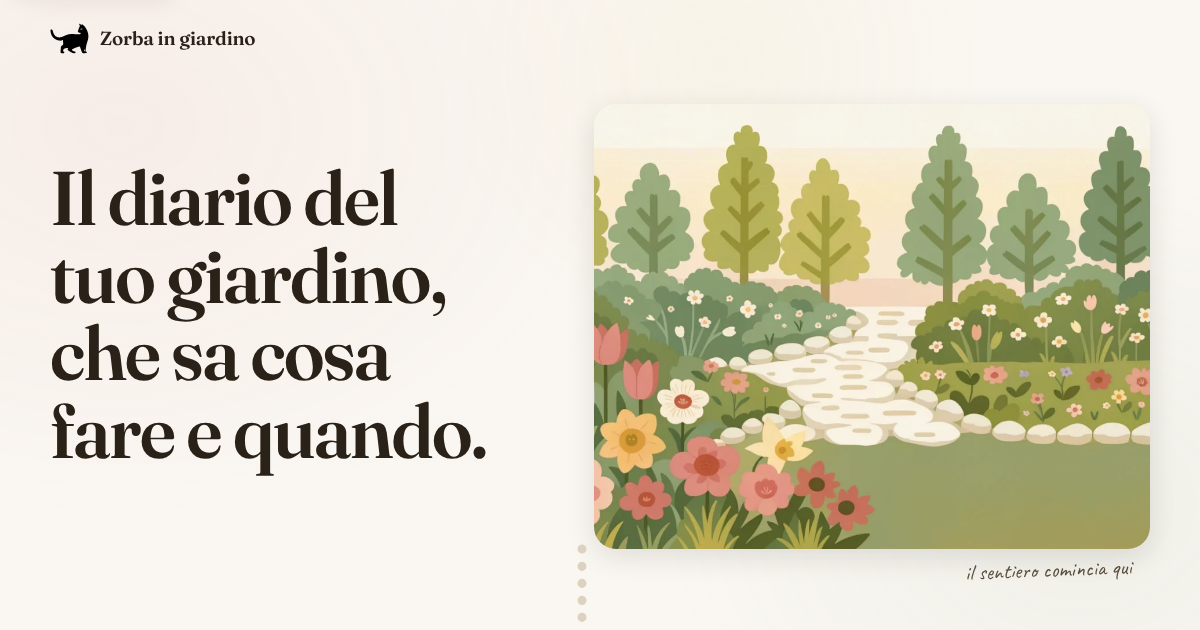
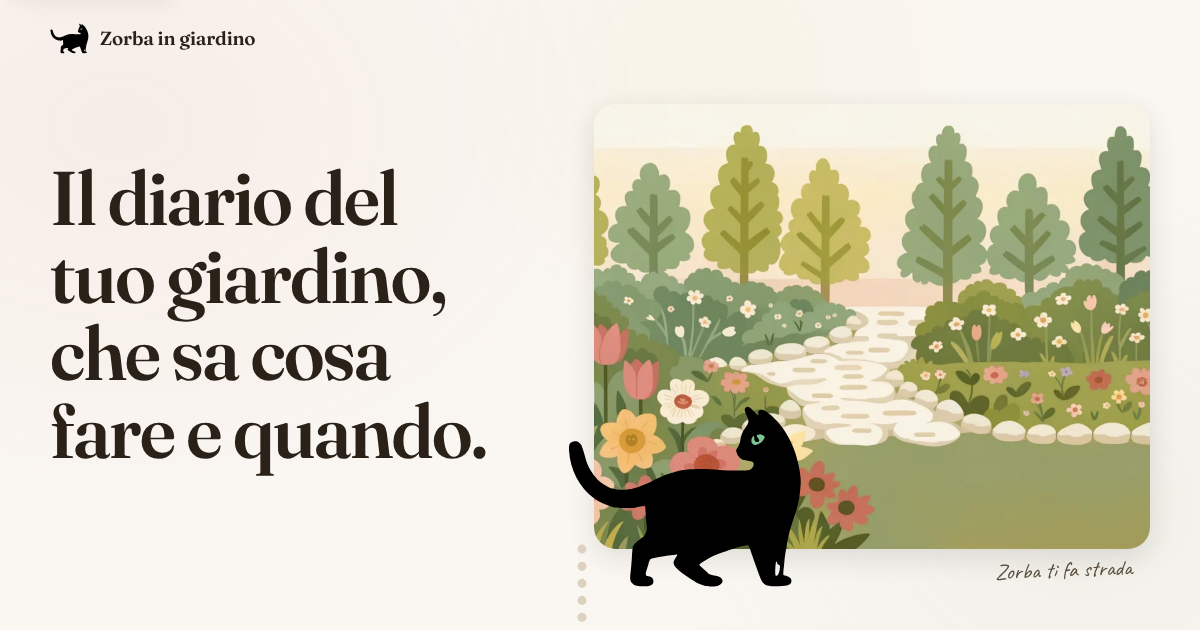
Minisito: Zorba in primo piano nella scena d'apertura
Il gatto esce dal dipinto e si ferma sul bordo della tavola, dove
comincia il sentiero; sul telefono la tavola viene prima del titolo.
Aggiornata anche l'anteprima per la condivisione.

Claude-Session: https://claude.ai/code/session_01Kb3bK6QHH1iSyKiEq4E3mF

Changed region(s): [[0.4625, 0.6333, 0.6783, 0.9349], [0.8017, 0.8746, 0.9558, 0.9349]]

diff --git a/src/scopri/scopri.css b/src/scopri/scopri.css
@@ -188,6 +188,21 @@ i { font-style: italic; }
 }
 @media (min-width: 900px) { .apertura__tavola img { aspect-ratio: 5 / 4; } }
 @media (prefers-color-scheme: dark) { .apertura__tavola img { filter: brightness(0.92); } }
+/* Zorba esce dal dipinto e si ferma sul bordo della tavola, sul punto
+   dove comincia il sentiero della pagina: è lui che accompagna il giro. */
+.zorba--apertura {
+  position: absolute; left: -5%; bottom: -15%;
+  width: 44%; height: auto;
+  pointer-events: none;
+}
+.zorba--apertura .zorba__coda { animation: coda 6s var(--ease) infinite; transform-origin: 131px 267px; }
+.zorba--apertura .zorba__occhio-g { animation: occhio 5.5s linear infinite; transform-origin: 401px 143px; }
+/* Sul telefono la tavola con Zorba viene prima del titolo: è lui che si
+   vede per primo, come sul computer. */
+@media (max-width: 899px) {
+  .apertura__tavola { order: -1; margin-bottom: 34px; }
+  .zorba--apertura { left: -2%; bottom: -22%; width: 40%; }
+}
 .apertura__didascalia {
   position: absolute; right: 18px; bottom: -34px;
   transform: rotate(-2deg);

diff --git a/scopri/index.html b/scopri/index.html
@@ -130,7 +130,8 @@
              alt="Un giardino in primavera dipinto ad acquerello: tulipani e margherite in primo piano, un sentiero di pietre bianche che si perde tra gli alberi."
              fetchpriority="high">
       </picture>
-      <figcaption class="mano apertura__didascalia">il sentiero comincia qui</figcaption>
+      <svg class="zorba zorba--apertura" viewBox="0 0 512 512" role="img" aria-label="Zorba, il gatto nero, sul sentiero del giardino"><use href="#zorba"/></svg>
+      <figcaption class="mano apertura__didascalia">Zorba ti fa strada</figcaption>
     </figure>
   </section>
 
